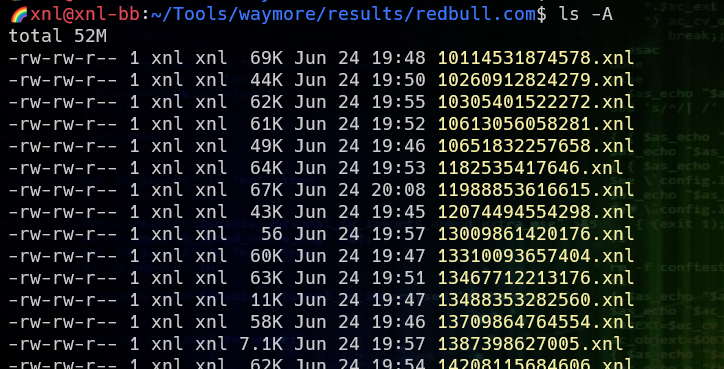
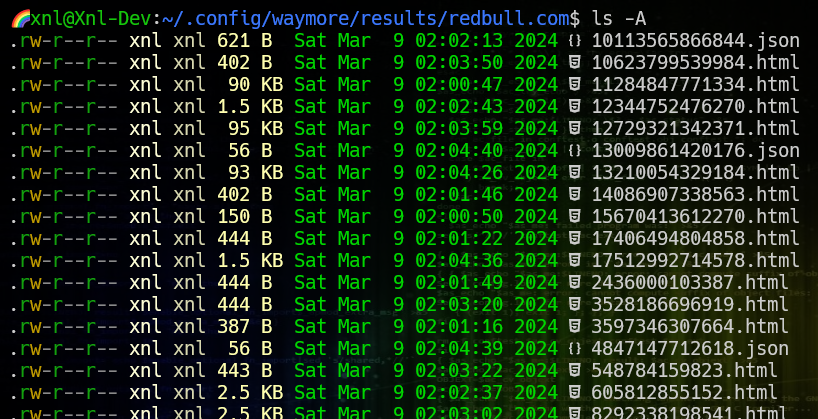
v3.1 - see CHANGELOG.md for details

diff --git a/waymore/waymore.py b/waymore/waymore.py
@@ -26,6 +26,7 @@ import enum
 import pickle
 import time
 import tldextract
+import mimetypes
 try:
     from . import __version__
 except:
@@ -212,7 +213,7 @@ def showVersion():
         try:
             resp = requests.get('https://raw.githubusercontent.com/xnl-h4ck3r/waymore/main/waymore/__init__.py',timeout=3)
         except:
-            print('Current waymore version '+__version__+' (unable to check if latest)')
+            print('Current waymore version '+__version__+' (unable to check if latest)\n')
         if __version__ == resp.text.split('=')[1].replace('"',''):
             print('Current waymore version '+__version__+' ('+colored('latest','green')+')\n')
         else:
@@ -702,8 +703,12 @@ def processArchiveUrl(url):
                     session = requests.Session()
                     session.mount('https://', HTTP_ADAPTER)
                     session.mount('http://', HTTP_ADAPTER)
-                    resp = session.get(url = archiveUrl, headers={"User-Agent":userAgent}, allow_redirects = False)
+                    resp = session.get(url = archiveUrl, headers={"User-Agent":userAgent}, allow_redirects = True)
                     archiveHtml = str(resp.text)
+                    try:
+                        contentType = resp.headers.get("Content-Type").split(';')[0]
+                    except:
+                        contentType = ''
                     
                     # Only create a file if there is a response
                     if len(archiveHtml) != 0:
@@ -739,18 +744,53 @@ def processArchiveUrl(url):
                             hashValue = filehash(archiveHtml)
                             fileName = hashValue
                             
-                            # Determine extension of file from the file name
+                            # Determine extension of file from the content-type using the mimetypes library
                             extension = ''
                             try:
-                                path = url[url.rindex(argsInput)+len(argsInput):]
-                                if path.find('?') > 0:
-                                    path = path[:path.index('?')]
-                                extension = path[path.rindex('.')+1:]
+                                # Guess from content type
+                                extension = mimetypes.guess_extension(contentType)
                             except:
                                 pass
-                            # If the extension is blank, numeric, longer than 6 characters or not alphanumeric - then it's not a valid file type so set to default of xnl
-                            if extension == '' or extension.isnumeric() or len(extension) > 6 or not extension.isalnum():
-                                extension = 'xnl'
+
+                            # If we didn't find an extension, try to get from the file name
+                            try:
+                                if extension == '':
+                                    parsed = urlparse(url.strip())
+                                    path = parsed.path
+                                    extension = path[path.rindex('.')+1:]
+                            except:
+                                pass
+
+                            # If the extension is blank, numeric, longer than 6 characters or not alphanumeric - then it's not a valid file type so check contentType
+                            if extension == '' or extension.isnumeric() or not extension.isalnum():
+                                # Determine the extension from the content type
+                                try:
+                                    if contentType != '':
+                                        extension = contentType.split('/')[1]
+                                except:
+                                    pass
+                                try:
+                                    if extension == '':
+                                        if 'html' in contentType.lower():
+                                            extension = 'html'
+                                        elif 'javascript' in contentType.lower():
+                                            extension = 'js'
+                                        elif 'json' in contentType.lower():
+                                            extension = 'json'
+                                        elif 'css' in contentType.lower():
+                                            extension = 'css'
+                                        elif 'pdf' in contentType.lower():
+                                            extension = 'pdf'
+                                except:
+                                    pass
+
+                                # If extension is still blank, set to html if the content ends with HTML tag, otherwise set to unknown
+                                if extension == '':
+                                    if archiveHtml.lower().strip().endswith('</html>'):
+                                        extension = 'html'
+                                    else:
+                                        extension = 'unknown'
+  
                             fileName = fileName + '.' + extension
                         
                         # If -oR / --output-responses was passed then add the file to that directory, 

diff --git a/setup.py b/setup.py
@@ -33,7 +33,7 @@ setup(
     author="@xnl-h4ck3r",
     url="https://github.com/xnl-h4ck3r/waymore",
     py_modules=["waymore"],
-    install_requires=["argparse","requests","pyyaml","termcolor","psutil","urlparse3","tldextract"],
+    install_requires=["argparse","requests","pyyaml","termcolor","psutil","urlparse3","tldextract","mimetype"],
     entry_points={
         'console_scripts': [
             'waymore = waymore.waymore:main',

diff --git a/waymore/__init__.py b/waymore/__init__.py
@@ -1,1 +1,1 @@
-__version__="3.0"
+__version__="3.1"

diff --git a/README.md b/README.md
@@ -1,6 +1,6 @@
 <center><img src="https://github.com/xnl-h4ck3r/waymore/blob/main/waymore/images/title.png"></center>
 
-## About - v3.0
+## About - v3.1
 
 The idea behind **waymore** is to find even more links from the Wayback Machine than other existing tools.
 
@@ -78,7 +78,7 @@ pipx install git+https://github.com/xnl-h4ck3r/waymore.git
 | -lr           | --limit-requests           | Limit the number of requests that will be made when getting links from a source (this doesn\'t apply to Common Crawl). Some targets can return a huge amount of requests needed that are just not feasible to get, so this can be used to manage that situation. This defaults to 0 (Zero) which means there is no limit.                                                                                                                                                                                                                                                                                                                                      |
 | -ow           | --output-overwrite         | If the URL output file (`waymore.txt`) already exists, it will be overwritten instead of being appended to.                                                                                                                                                                                                                                                                                                                                                                                                                                                                                                                                                    |
 | -nlf          | --new-links-file           | If this argument is passed, a waymore.new file (or if `-oU` is used it will be the name of that file suffixed with `.new`) will also be written that will contain links for the latest run. This can be used for continuous monitoring of a target.                                                                                                                                                                                                                                                                                                                                                                                                            |
-| -c            | --config                   | Path to the YML config file. If not passed, it looks for file `config.yml` in the same directory as runtime file `waymore.py`                                                                                                                                                                                                                                                                                                                                                                                                                                                                                                                                  |
+| -c            | --config                   | Path to the YML config file. If not passed, it looks for file `config.yml` in the default directory, typically `~/.config/waymore`.                                                                                                                                                                                                                                                                                                                                                                                                                                                                                                                            |
 | -wrlr         | --wayback-rate-limit-retry | The number of minutes the user wants to wait for a rate limit pause on Wayback Machine (archive.org) instead of stopping with a `429` error (default: 3).                                                                                                                                                                                                                                                                                                                                                                                                                                                                                                      |
 | -urlr         | --urlscan-rate-limit-retry | The number of minutes the user wants to wait for a rate limit pause on URLScan.io instead of stopping with a `429` error (default: 1).                                                                                                                                                                                                                                                                                                                                                                                                                                                                                                                         |
 | -co           | --check-only               | This will make a few minimal requests to show you how many requests, and roughly how long it could take, to get URLs from the sources and downloaded responses from Wayback Machine.                                                                                                                                                                                                                                                                                                                                                                                                                                                                           |
@@ -104,7 +104,7 @@ docker build -t waymore .
 Run waymore with this command:
 
 ```bash
-docker run -it --rm -v $PWD/results:/app/results waymore:latest python3 waymore/waymore.py -i example.com -oU example.com.links -oR results/example.com/
+docker run -it --rm -v $PWD/results:/app/results waymore:latest waymore -i example.com -oU example.com.links -oR results/example.com/
 ```
 
 ## Input and Mode
@@ -141,7 +141,7 @@ When run, the following files are created in the target directory:
 
 - `waymore.txt` - If `-mode` is `U` or `B`, this file will contain links from selected sources. Links will be retrieved from archive.org Wayback Machine (unless `-xwm` was passed), commoncrawl.org (unless `-xcc` was passed), otx.alienvault.com (unless `-xav` was passed) and urlscan.io (unless `-xus` was passed). If the `-ow` option was also passed, any existing `waymore.txt` file in the target results directory will be overwritten, otherwise new links will be appended and duplicates removed.
 - `index.txt` - If `-mode` is `R` or `B`, and `-url-filname` was not passed then archived responses will be downloaded and hash values will be used for the saved file names. This file contains a comma separated list of `<hash>,<archive URL>,<timestamp>` in case you need to know which URLs produced which response.
-- `ALL OTHER FILES` - These archived response files will be created if `-mode` was `R` or `B`. If `-url-filename` was passed the the file names will be the archive URL that generated the response, e.g. `https--example.com-robots.txt`, otherwise the file name will be a hash value, e.g. `7960113391501.xnl` (the extension of `.xnl` is used if the original file name cannot be derived from the URL). Using hash values mean that less files will be written as there will only be one file per unique response. These archived responses are edited, before being saved, to remove any reference to `web.archive.org`.
+- `ALL OTHER FILES` - These archived response files will be created if `-mode` was `R` or `B`. If `-url-filename` was passed the the file names will be the archive URL that generated the response, e.g. `https--example.com-robots.txt`, otherwise the file name will be a hash value, e.g. `7960113391501.{EXT}` where `{EXT}` will be the extension derived from the path, otherwise it will be derived from the response `content-type`. Sometimes a general extesions will be given, e.g. `.js` for any content type containing the word `javascript`, otherwise it may be set to the last part of the type (e.g. if it's `application/java-archive` the file will be `7960113391501.java-archive`). Using hash values mean that less files will be written as there will only be one file per unique response. These archived responses are edited, before being saved, to remove any reference to `web.archive.org`.
 
 ## Info and Suggestions
 
@@ -183,12 +183,12 @@ Just get the URLs from all sources for `redbull.com` (`-mode U` is just for URLs
 
 <center><img src="https://github.com/xnl-h4ck3r/waymore/blob/main/waymore/images/example1.png"></center>
 
-The URLs are saved in the same path as `waymore.py` under `results/redbull.com/waymore.txt`
+The URLs are saved in the same path as `config.yml` (typically `~/.config/waymore`) under `results/redbull.com/waymore.txt`
 
 ### Example 2
 
-Get ALL the URLs from Wayback for `redbull.com` (no filters are applied with `-f`, and no URLs are retrieved from Commone Crawl because `-xcc` is passed, or from Alien Vault because `-xav` is passed).
-Save the FIRST 1000 responses that are found starting from 2015 (`-l 1000 -from 2015`):
+Get ALL the URLs from Wayback for `redbull.com` (no filters are applied in `mode U` with `-f`, and no URLs are retrieved from Commone Crawl, Alien Vault, URLScan and Virus Total, because `-xcc`, `-xav`, `-xus`, `-xvt` are passed respectively).
+Save the FIRST 200 responses that are found starting from 2022 (`-l 200 -from 2022`):
 
 <center><img src="https://github.com/xnl-h4ck3r/waymore/blob/main/waymore/images/example2.png"></center>
 
@@ -210,13 +210,13 @@ where `4847147712618` is the hash value of the response in `4847147712618.xnl`, 
 You can pipe waymore to other tools. Any errors are sent to `stderr` and any links found are sent to `stdout`. The output file is still created in addition to the links being piped to the next program. However, archived responses are not piped to the next program, but they are still written to files. For example:
 
 ```
-python3 waymore.py -i redbull.com -mode U | unfurl keys | sort -u
+waymore -i redbull.com -mode U | unfurl keys | sort -u
 ```
 
 You can also pass the input through `stdin` instead of `-i`.
 
 ```
-cat redbull_subs.txt | python3 waymore.py
+cat redbull_subs.txt | waymore
 ```
 
 ## Example 4
@@ -224,7 +224,7 @@ cat redbull_subs.txt | python3 waymore.py
 Sometimes you may just want to check how many request, and how long `waymore` is likely to take if you ran it for a particular domain. You can do a quick check by using the `-co`/`--check-only` argument. For example:
 
 ```
-python3 waymore.py -i redbull.com --check-only
+waymore -i redbull.com --check-only
 ```
 
 <center><img src="https://github.com/xnl-h4ck3r/waymore/blob/main/waymore/images/example4.png"></center>
@@ -235,7 +235,7 @@ So now you have lots of archived responses and you want to find extra links? Eas
 For example:
 
 ```
-python3 xnLinkFinder -i ~/Tools/waymore/results/redbull.com -sp https://www.redbull.com -sf redbull.com -o redbull.txt
+xnLinkFinder -i ~/Tools/waymore/results/redbull.com -sp https://www.redbull.com -sf redbull.com -o redbull.txt
 ```
 
 Or run other tools such as [trufflehog](https://github.com/trufflesecurity/trufflehog) or [gf](https://github.com/tomnomnom/gf) over the directory of responses to find even more from the archived responses!

diff --git a/CHANGELOG.md b/CHANGELOG.md
@@ -1,5 +1,12 @@
 ## Changelog
 
+- v3.1
+
+  - Changed
+
+    - Make the identification of extension type better when creating the archived hash files. First try the `mimetypes` library that guesses the extension based on the mimetype. If that doesn't work, try to get the extension from the path. If the extension cannot be retrieved from the path, it will be derived from the `content-type` header. If a generic type still can't be obtained, it will be set to the 2nd part of the `content-type` after the `/`. If still unknown, it will be set to `.unknown`. There will be no more `.xnl` extensions by default.
+    - Updated `README` and images to reflect the most recent version.
+
 - v3.0
 
   - New
